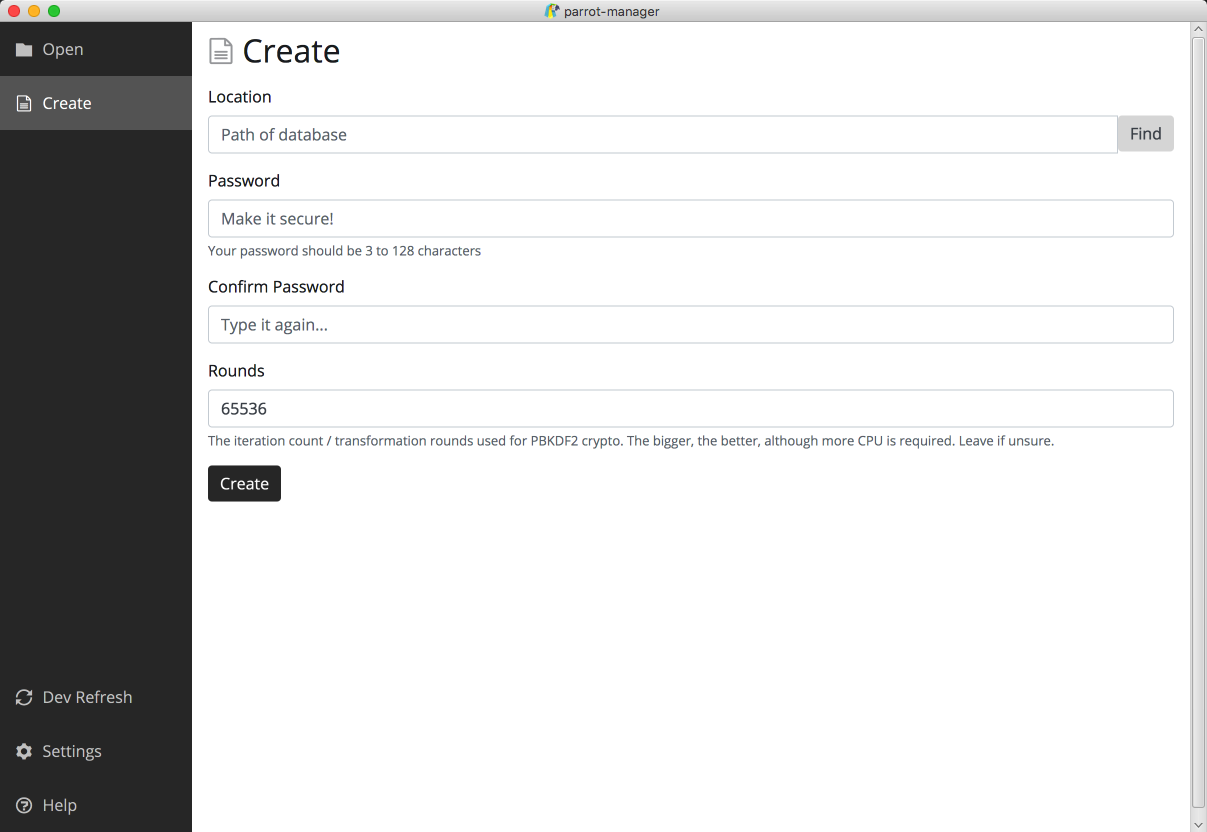
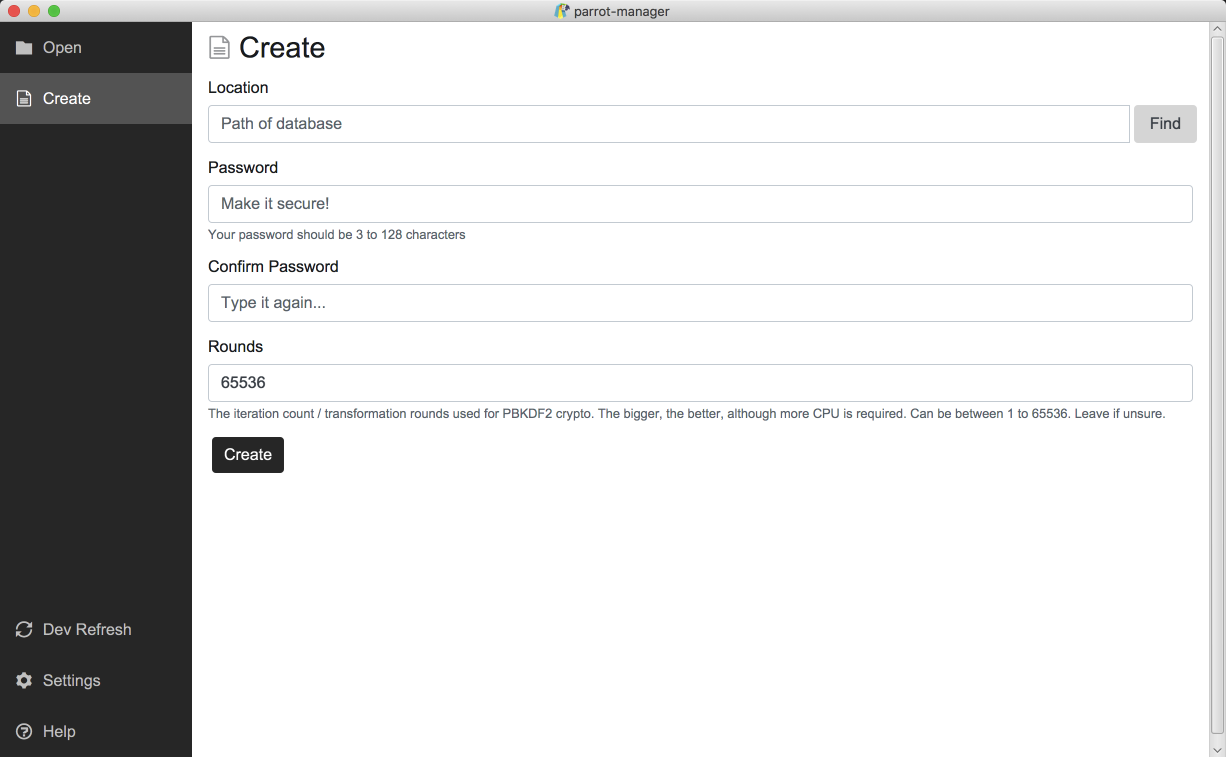
Screenshots updated, minor fix for checkboxes, upgrading spring, fixed unit test.

diff --git a/parrot-manager-frontend/src/app/component/pages/viewer/viewer.component.html b/parrot-manager-frontend/src/app/component/pages/viewer/viewer.component.html
@@ -22,7 +22,6 @@
                        (updateTree)="updateTree()"
                        (updateTreeSelection)="updateTreeSelection()"
                        (changeNodeBeingViewed)="changeNodeBeingViewed($event)"
-                       (saveValue)="saveValue()"
         ></current-entry>
 
         <ul class="nav nav-tabs">

diff --git a/parrot-manager-frontend/src/app/component/pages/viewer/current-entry/current-entry.component.ts b/parrot-manager-frontend/src/app/component/pages/viewer/current-entry/current-entry.component.ts
@@ -28,7 +28,6 @@ export class CurrentEntryComponent
     @Output() updateTree = new EventEmitter();
     @Output() updateTreeSelection = new EventEmitter();
     @Output() changeNodeBeingViewed = new EventEmitter();
-    @Output() saveValue = new EventEmitter();
 
     constructor(
         private viewerService: ViewerService,

diff --git a/parrot-manager-frontend/src/assets/style.css b/parrot-manager-frontend/src/assets/style.css
@@ -204,6 +204,6 @@ main h1 a:hover
 /* fixes for bootstrap */
 .form-check-label
 {
-    margin-top: 0.2em;
+    margin-top: 0.4em;
     margin-left: 0.25em;
 }

diff --git a/parrot-manager-frontend/src/app/component/pages/viewer/current-entry/current-entry.component.css b/parrot-manager-frontend/src/app/component/pages/viewer/current-entry/current-entry.component.css
@@ -8,7 +8,6 @@
     font-size: 2em;
     padding: 0.4em 0.2em 0.2em 0;
     width: 100%;
-    font-weight: bold;
     color: #666;
 }
 

diff --git a/parrot-library/src/test/java/com/limpygnome/parrot/library/db/DatabaseNodeHistoryTest.java b/parrot-library/src/test/java/com/limpygnome/parrot/library/db/DatabaseNodeHistoryTest.java
@@ -153,7 +153,7 @@ public class DatabaseNodeHistoryTest
     public void remove_setsDirty()
     {
         // When
-        history.delete(encryptedValue.toString());
+        history.delete(encryptedValueId.toString());
 
         // Then
         verify(database).setDirty(true);

diff --git a/README.md b/README.md
@@ -2,7 +2,9 @@
     parrot manager
 </h1>
 <p align="center">
-    <i>passwords made simple</i>
+    <i>
+        passwords made simple
+    </i>
 </p>
 
 <p align="center">
@@ -22,7 +24,10 @@ A simple password manager with a modern interface, with ability to synchronize d
 Supports Linux, Windows and Mac.
 
 <p align="center">
-    <img src="docs/screenshots/7.0/parrot-window2.png" alt="Parrot manager window" />
+    <img src="docs/screenshots/7.0/parrot-window.png" alt="Parrot manager window" />
+</p>
+<p align="center">
+    More screenshots can be found [here](docs/screenshots).
 </p>
 
 
@@ -41,8 +46,6 @@ Supports Linux, Windows and Mac.
     - Currently supports csv and json
 - Modern UI
 - Standalone mode - useful for memory sticks and restrictive environments
-
-Screenshots can be found in [here](docs/screenshots).
 
 Upcoming features can be seen on the [roadmap](ROADMAP.md).
 

diff --git a/changelog/7.0.md b/changelog/7.0.md
@@ -36,3 +36,4 @@ Fixes:
 - Backups page sometimes going blank.
 - Showing/hiding empty value would be detected as change.
 - Front-end initialization was not always waiting for injected services.
+- Data was disappearing due to native garbage collection.
